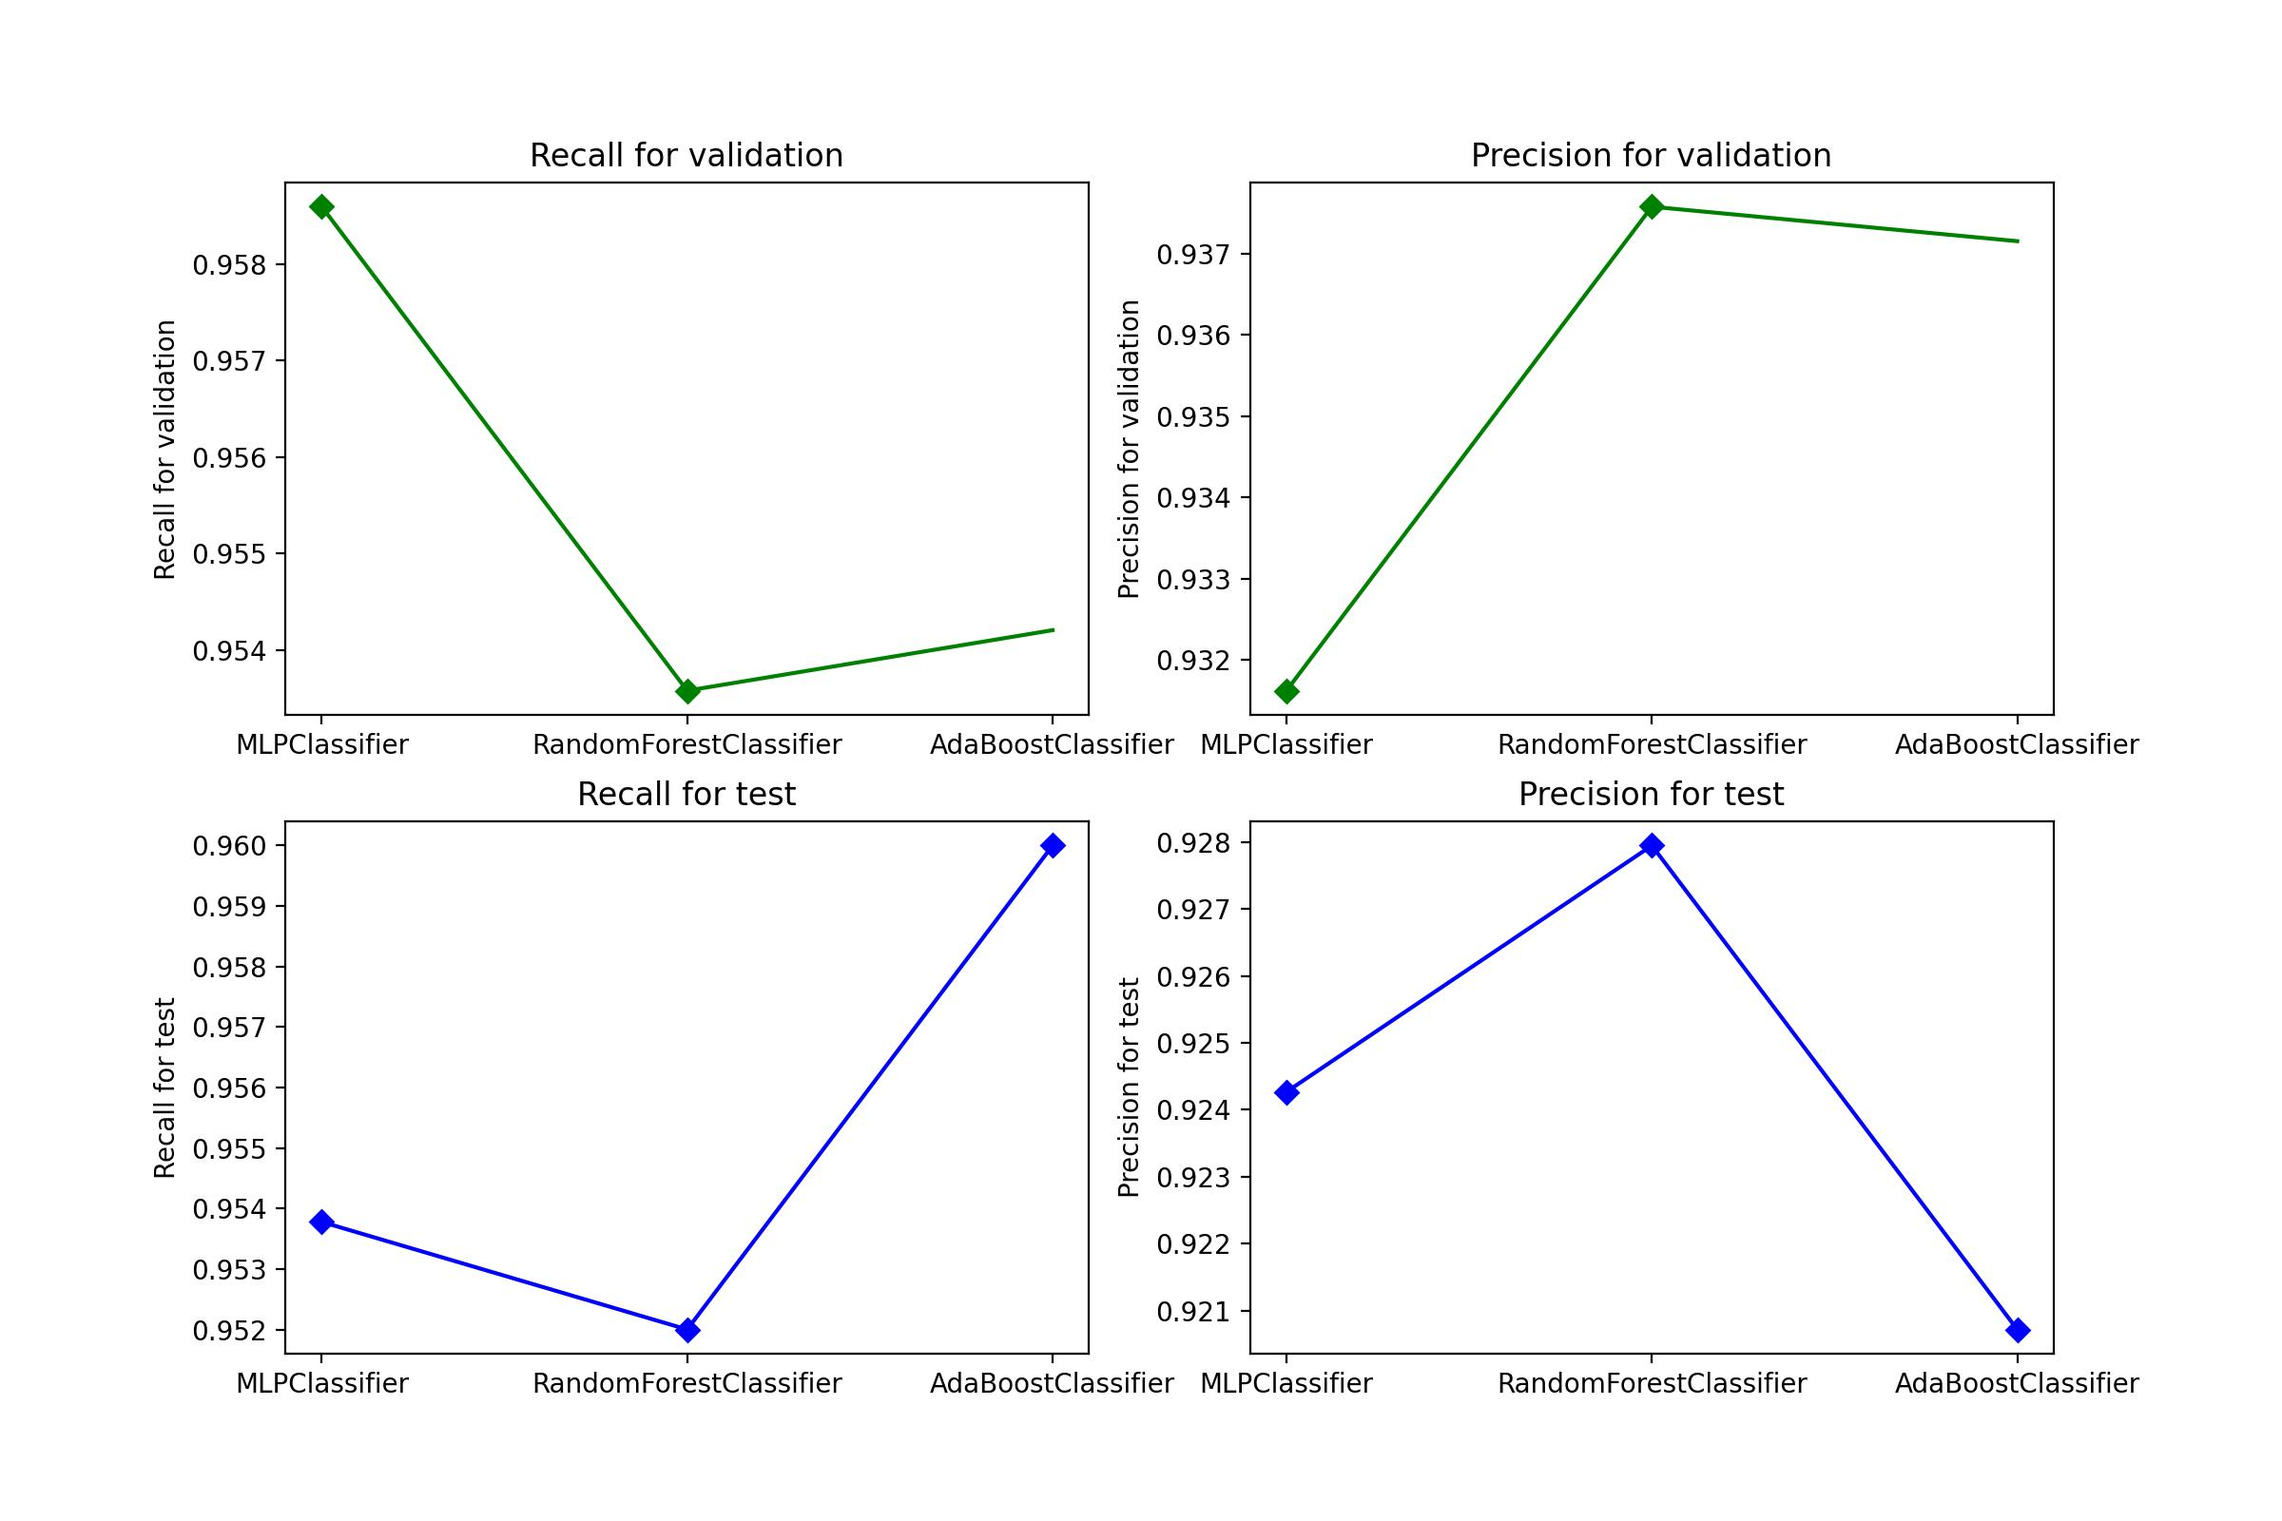
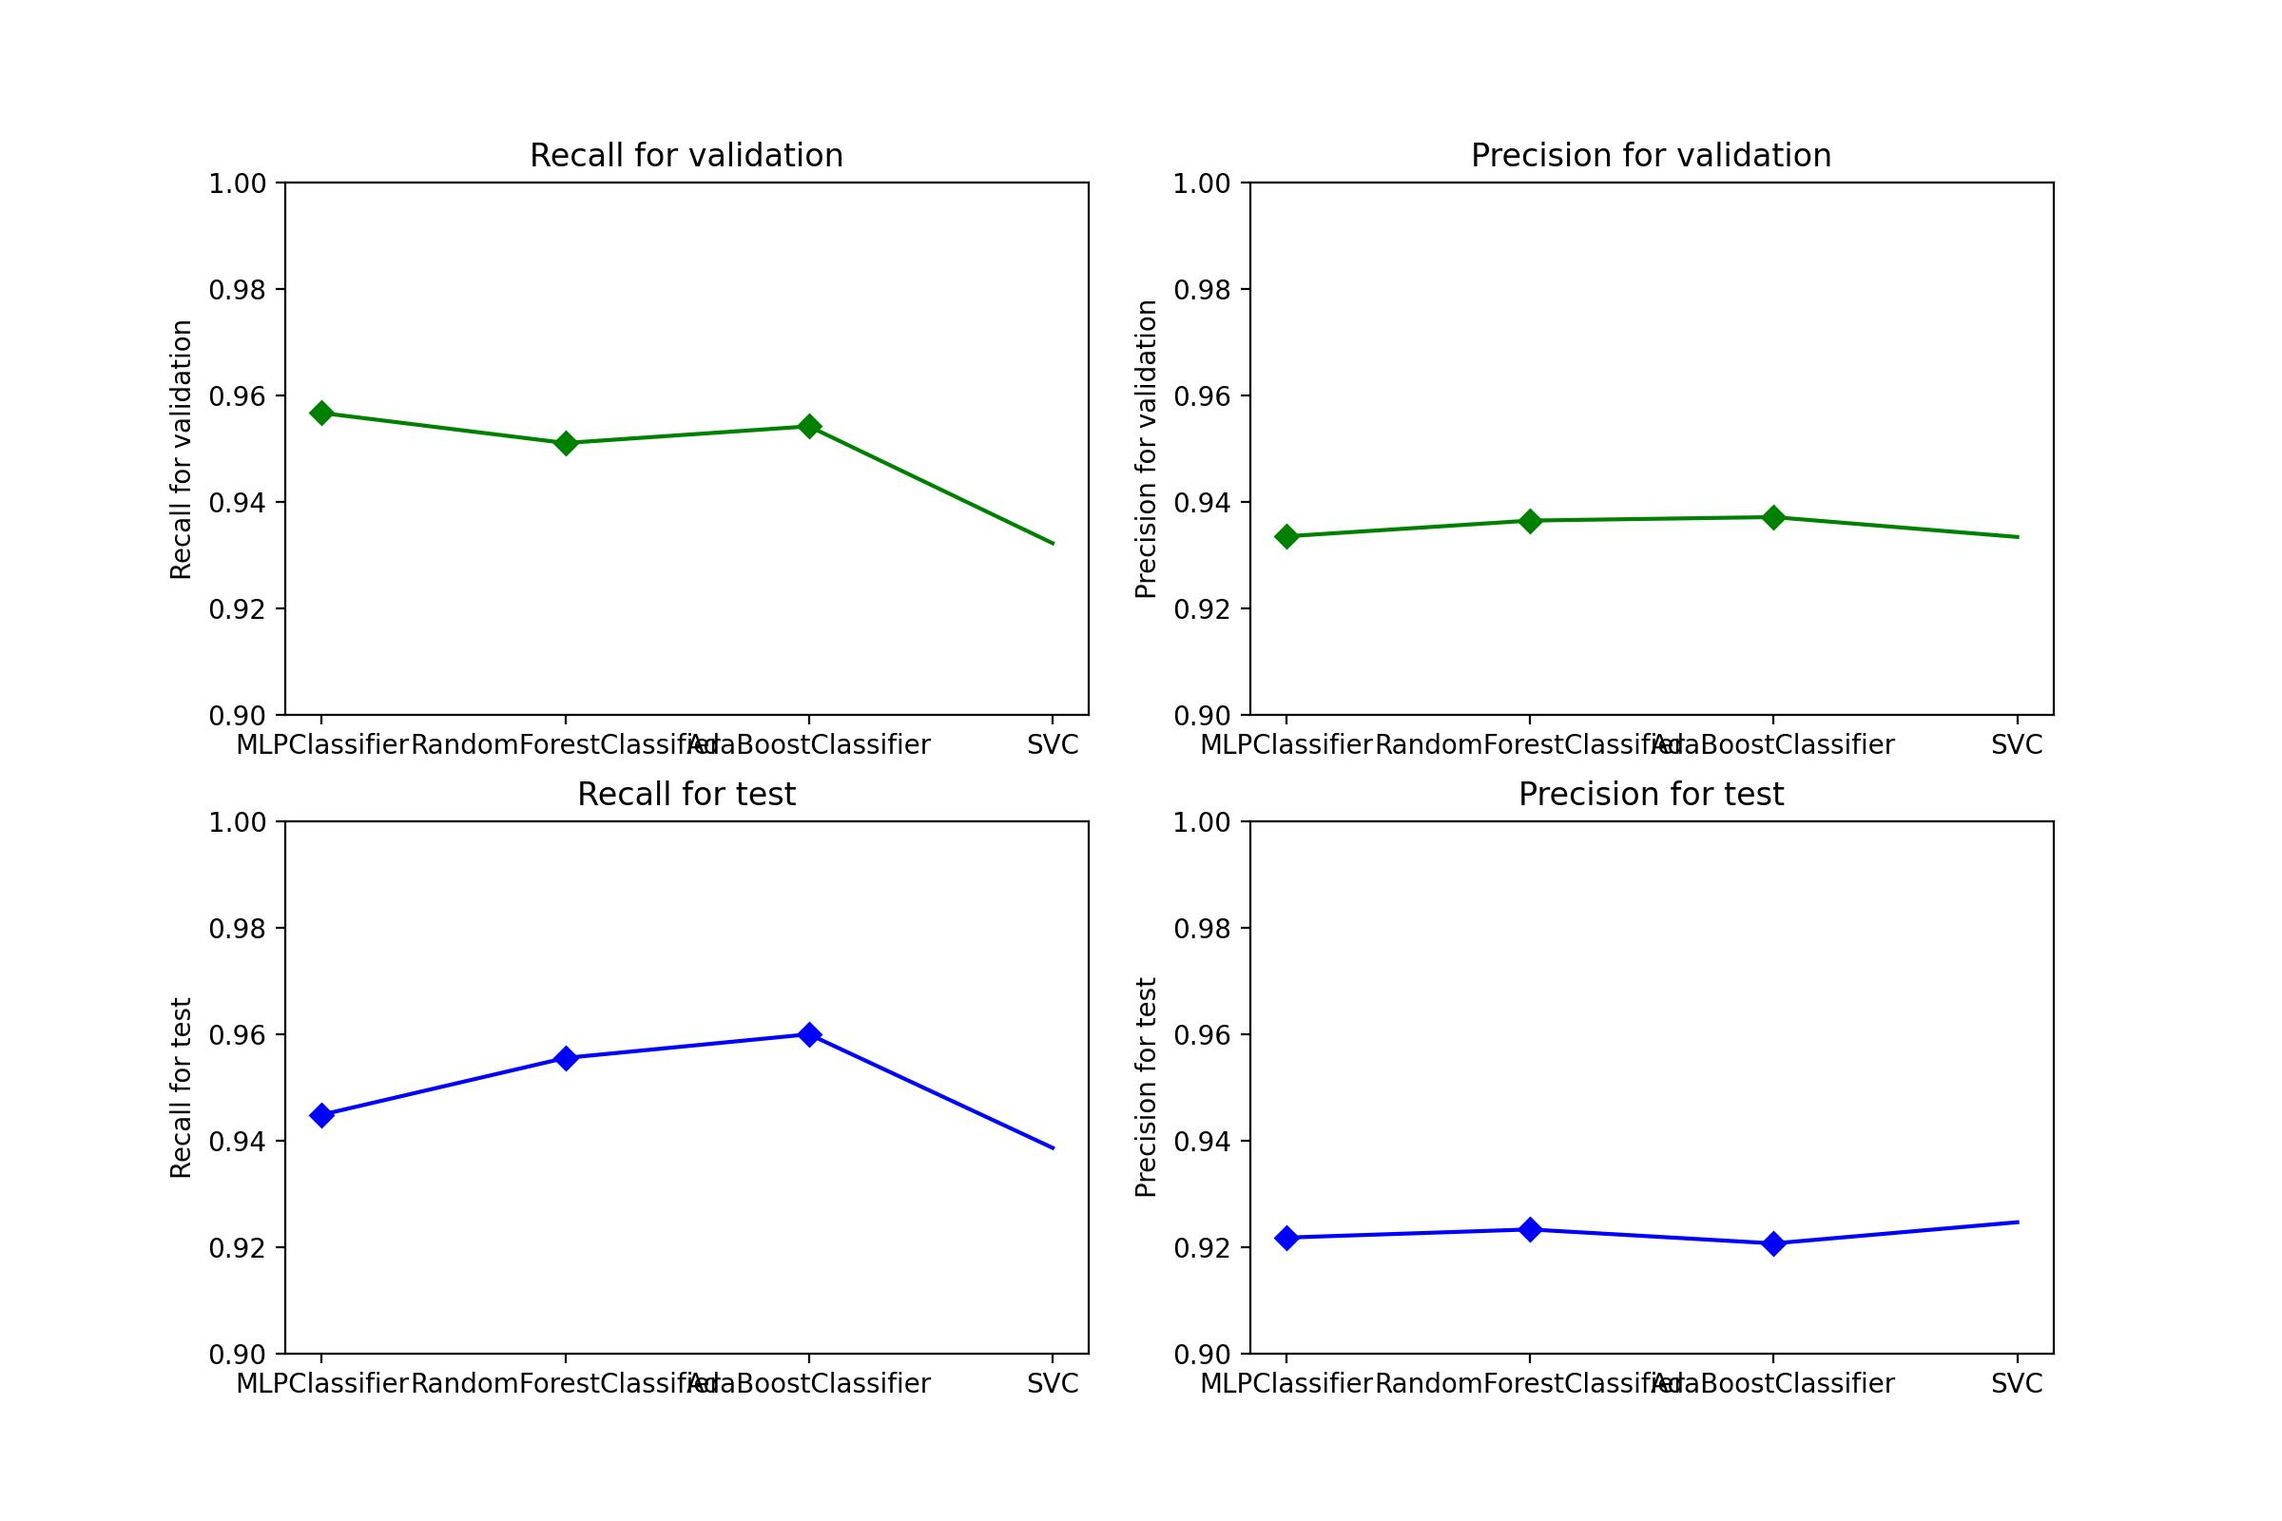
PCA and SVC added

diff --git a/main_file.py b/main_file.py
@@ -4,6 +4,7 @@ from sklearn.model_selection import train_test_split
 from sklearn.ensemble import RandomForestClassifier, AdaBoostClassifier
 from sklearn.neural_network import MLPClassifier
 from sklearn.preprocessing import StandardScaler
+from sklearn.svm import SVC
 from precision_counter import precision_func
 from recall_counter import recall_func
 from data_remaker import feature_engineering
@@ -28,7 +29,8 @@ model_mlp = MLPClassifier(activation='relu', alpha=0.0001, hidden_layer_sizes=(1
                           learning_rate='constant', solver='adam', max_iter=1000)
 model_rfc = RandomForestClassifier(n_estimators=128, max_features=3)
 model_ada = AdaBoostClassifier(n_estimators=59)
-alg_models = [model_mlp, model_rfc, model_ada]
+model_svc = SVC(C=1, degree=2, gamma='scale')
+alg_models = [model_mlp, model_rfc, model_ada, model_svc]
 
 recall_metric_test = []
 precision_metric_test = []
@@ -43,11 +45,13 @@ print("Recall for test")
 print(f"MLP: {recall_metric_test[0]}")
 print(f"RFC: {recall_metric_test[1]}")
 print(f"AdaBoost: {recall_metric_test[2]}")
+print(f"SVC: {recall_metric_test[3]}")
 print('\n')
 print("Precision for test")
 print(f"MLP: {precision_metric_test[0]}")
 print(f"RFC: {precision_metric_test[1]}")
 print(f"AdaBoost: {precision_metric_test[2]}")
+print(f"SVC: {precision_metric_test[3]}")
 print('\n')
 
 recall_metric_val = []
@@ -63,26 +67,32 @@ print("Recall for validation")
 print(f"MLP: {recall_metric_val[0]}")
 print(f"RFC: {recall_metric_val[1]}")
 print(f"AdaBoost: {recall_metric_val[2]}")
+print(f"SVC: {recall_metric_val[3]}")
 print('\n')
 print("Precision for validation")
 print(f"MLP: {precision_metric_val[0]}")
 print(f"RFC: {precision_metric_val[1]}")
 print(f"AdaBoost: {precision_metric_val[2]}")
+print(f"SVC: {precision_metric_val[3]}")
 
 alg_names = [model.__class__.__name__ for model in alg_models]
 
 fig, axs = plt.subplots(2, 2, figsize=(12, 8), dpi=200)
-axs[0, 0].plot(alg_names, recall_metric_val, '-gD', markevery=0.4, label='line with markers')
+axs[0, 0].plot(alg_names, recall_metric_val, '-gD', markevery=0.3, label='line with markers')
 axs[0, 0].set_title('Recall for validation')
 axs[0, 0].set_ylabel('Recall for validation')
-axs[0, 1].plot(alg_names, precision_metric_val, '-gD', markevery=0.4, label='line with markers')
+axs[0, 0].set_ylim([0.9, 1])
+axs[0, 1].plot(alg_names, precision_metric_val, '-gD', markevery=0.3, label='line with markers')
 axs[0, 1].set_title('Precision for validation')
 axs[0, 1].set_ylabel('Precision for validation')
-axs[1, 0].plot(alg_names, recall_metric_test, '-bD', markevery=0.4, label='line with markers')
+axs[0, 1].set_ylim([0.9, 1])
+axs[1, 0].plot(alg_names, recall_metric_test, '-bD', markevery=0.3, label='line with markers')
 axs[1, 0].set_title('Recall for test')
 axs[1, 0].set_ylabel("Recall for test")
-axs[1, 1].plot(alg_names, precision_metric_test, '-bD', markevery=0.4, label='line with markers')
+axs[1, 0].set_ylim([0.9, 1])
+axs[1, 1].plot(alg_names, precision_metric_test, '-bD', markevery=0.3, label='line with markers')
 axs[1, 1].set_title('Precision for test')
 axs[1, 1].set_ylabel('Precision for test')
+axs[1, 1].set_ylim([0.9, 1])
 
 plt.savefig('results.jpg')

diff --git a/training_for_svc.py b/training_for_svc.py
@@ -2,27 +2,25 @@ import pandas as pd
 from data_remaker import feature_engineering
 from sklearn.model_selection import GridSearchCV
 from sklearn.model_selection import train_test_split
-from sklearn.neural_network import MLPClassifier
+from sklearn.svm import SVC
 
 
 df = pd.read_csv('Cross sale k-drivers_v2_1.csv')
 df = feature_engineering(df)
 
-X = pd.get_dummies(df.drop('категория', axis=1), drop_first=True)
+X = df.drop('категория', axis=1)
+X = pd.get_dummies(data=X, columns=['first_prod', 'gender', 'flg_currency'], drop_first=True)
 df = pd.get_dummies(df['категория'], drop_first=True)
 y = df.iloc[:, 0]
 
 X_train, X_test, y_train, y_test = train_test_split(X, y, test_size=0.15, random_state=42, stratify=y)
 X_train, X_val, y_train, y_val = train_test_split(X_train, y_train, test_size=0.25, stratify=y_train)
 
-model_mlp = MLPClassifier()
-param_grid = {'hidden_layer_sizes': [(10, 30, 10), (20,)],
-              'activation': ['tanh', 'relu'],
-              'solver': ['sgd', 'adam'],
-              'alpha': [0.0001, 0.05],
-              'learning_rate': ['constant', 'adaptive']}
+svc = SVC()
+param_grid = {'C': [0.001, 0.01, 0.1, 0.5, 1],
+              'gamma': ['scale', 'auto'],
+              'degree': [2, 3, 4]}
 
-grid = GridSearchCV(model_mlp, param_grid)
+grid = GridSearchCV(svc, param_grid)
 grid.fit(X_train, y_train)
 print(grid.best_params_)
-

diff --git a/principal_components.py b/principal_components.py
@@ -1,0 +1,26 @@
+import pandas as pd
+import numpy as np
+import matplotlib.pyplot as plt
+from sklearn.preprocessing import StandardScaler
+from sklearn.decomposition import PCA
+from data_remaker import feature_engineering
+
+df = pd.read_csv('Cross sale k-drivers_v2_1.csv')
+df = feature_engineering(df)
+
+X = pd.get_dummies(data=df, columns=['first_prod', 'gender', 'flg_currency', 'категория'], drop_first=True)
+scaler = StandardScaler()
+scaled_X = scaler.fit_transform(X)
+
+explained_variance = []
+
+for n in range(1, 34):
+    pca = PCA(n_components=n)
+    pca.fit(scaled_X)
+    explained_variance.append(np.sum(pca.explained_variance_ratio_))
+
+plt.figure(figsize=(12, 8), dpi=200)
+plt.plot(range(1, 34), explained_variance, 'o--')
+plt.xlabel('Number of Components')
+plt.ylabel('Explained Variance')
+plt.savefig('component_variance.jpg')

diff --git a/training_for_ada.py b/training_for_ada.py
@@ -1,13 +1,13 @@
 import pandas as pd
 import matplotlib.pyplot as plt
-from data_remaker import featue_engineering
+from data_remaker import feature_engineering
 from sklearn.model_selection import train_test_split
 from sklearn.ensemble import AdaBoostClassifier
 from sklearn.metrics import accuracy_score
 
 
 df = pd.read_csv('Cross sale k-drivers_v2_1.csv')
-df = featue_engineering(df)
+df = feature_engineering(df)
 
 X = pd.get_dummies(df.drop('категория', axis=1), drop_first=True)
 df = pd.get_dummies(df['категория'], drop_first=True)

diff --git a/feature_importance.py b/feature_importance.py
@@ -58,4 +58,3 @@ print(recall_func(model_rfc, X_train, y_train, X_test, y_test))
 print(precision_func(model_rfc, X_train, y_train, X_test, y_test))
 print(recall_func(model_rfc, X_train, y_train, X_val, y_val))
 print(precision_func(model_rfc, X_train, y_train, X_val, y_val))
-

diff --git a/Readme.md b/Readme.md
@@ -1,24 +1,21 @@
 О чем работа?
 
-Во первых надо просмотреть файл "Cross sale k-drivers_v2_1.csv" в котором есть данные про клиентов банка.
-Наша задача при помощи алгоритмов Машинного обучения воспроизвести код при помощи которого можно будем предугадать
-столбик "категория".
-Во вторых надо обустроить файл так чтобы наш алгоритм мог работать над файлом. Надо посмотреть есть ли пробелы в файле,
-если есть пробелы, то надо узнать есть ли в них важная информация, если нет`то можно их удалить, если да`то надо сделать Feature engineering.
-Для этого мы разработали функцию которая обрабатывает файл (feature_enginnering).
-А потом надо выбрать такой алгоритм который подходит лучше всех. Сначала мы с Максимом выбрали Random Forest Classificator.
-После этого мы решили попробовать Boosting Methods. Сначала я протестировал код без каких либо изменений в гиперпараметрах.
-А после этого я изпользовал цикл for для того чтобы вычислить какой наилучшей цифрой будет для n_estimators.
-код`
+Придоствлен банковский отчет по поводу клиентов. Нужно вычеслить столб "категория".
+В файле 10k_clients_decrypted написанно все что нужно знать для начало работы.
+Общая работа будет возпроизведена над файлом Cross sale k-drivers_v2_1 в файле main_file.py.
 
-error_rates = []
-for n in range(1,100):
-    model = AdaBoostClassifier(n_estimator=n)
-    model.fit(X_train, y_train)
-    pred = model.predict(X_test)
-    err = 1 - accuarcy_score(y_test, pred)
-    error_rates.append(err)
-print(error_rates)
+Во первых надо обустроить файл так чтобы наш алгоритм мог работать над файлом.Для этого используется функция feature_engineering из файла data_remaker.py.
+Во вторых используются разные алгоритмы для вычесления столбика "категория".В число этий алгоритмов входят Multilayer perceptron, Random Forest, Adaboots и Support vector machines.
+При помощи GridSearchCV выбираем лучшие гиперпараметры для каждого алгоритма.
+Потом просчитываются метрики Recall и Precision для каждого из алгоритмов, при помощи фукнций recall_func и precision_func.
+В конце визуализируются все расчеты.
 
-При помощи этого кода я выбрал наилучшую цифру для этого гиперпараметра.
-И напоследок, я написал функцию которая забирает модель алгоритма и данные файла и возврашает насколько были правы предсказания кода.
+В файле feature_importance.py просчитывается важность столбцов. Потом выбираются 5 самых важных из них, и на их основании разрабатывается новый столб "Cluster".
+Данный столб учитывается в последующих вычеслениях.
+
+Отчет!
+
+Судья по графику, алгоритм SVC строго отличается от других. Рекомендуется не исползовать этот алгоритм для дальнейших работ.
+Остальные алгоритмы сильно не отличаются по результату, но результаты AdaBoost не много лучше других.
+Но кроме общих алгоритмов которые представлены в файле main_file.py, алгоритм Random Forest отличается наивышими результатоми в файле density_cluster.py.
+
